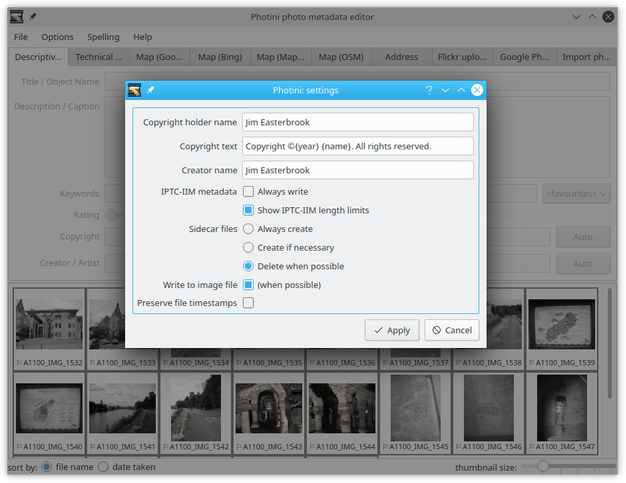
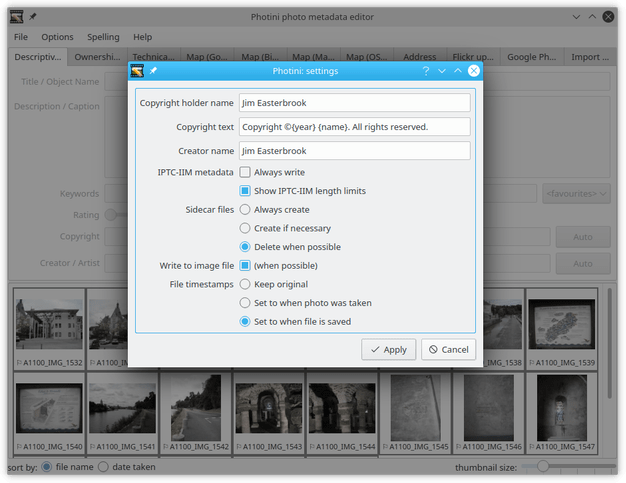
Update documentation of configuration setting

Changed region(s): [[0.1821, 0.0932, 0.9712, 0.8075], [0.1214, 0.0932, 0.1821, 0.1242], [0.0607, 0.0932, 0.0911, 0.1242]]

diff --git a/src/photini/__init__.py b/src/photini/__init__.py
@@ -1,4 +1,4 @@
 from __future__ import unicode_literals
 
 __version__ = '2021.9.0'
-build = '1820 (de43b33)'
+build = '1821 (4844faa)'

diff --git a/src/doc/manual/configuration.rst b/src/doc/manual/configuration.rst
@@ -11,7 +11,7 @@ The ``Options`` menu also has a ``Settings`` item which opens the dialog shown b
 
 .. image:: ../images/screenshot_36.png
 
-The top three items can be used to adjust the auto-generated copyright and creator fields on the descriptive metadata tab.
+The top three items can be used to adjust the auto-generated copyright and creator fields on the descriptive metadata and ownership tabs.
 The ``copyright text`` entry has place-holders where the photograph's "taken" year and the copyright holder's name are inserted.
 You might want to change the surrounding text to suit the law in your country, or even to make your photographs rights free if you like.
 
@@ -31,9 +31,11 @@ Sidecar files allow metadata to be stored without needing to write to the actual
 If you deselect "write to image file" then sidecars will always be created.
 Otherwise, you can choose to have them always created (storing data in parallel with the image file), only created when necessary (e.g. an image file is write protected), or deleted when possible (if metadata can be copied to the image file the sidecar is deleted).
 
-Finally there is an option to preserve file timestamps.
-This allows Photini to write metadata to an image file without changing the file's "modification time" as displayed in a file browser.
-You may find this useful if you often use a browser to sort files by date.
+Finally there are options to adjust file timestamps.
+"Keep original" leaves image files' timestamps unchanged.
+"Set to when photo was taken" changes files' timestamps to the date & time taken (as shown on the technical tab).
+"Set to when the file is saved" sets files' timestamps to when you save the file with Photini, like most other computer programs do.
+You may find these options useful if you often use a file browser to sort files by date.
 
 .. _configuration-spell:
 
